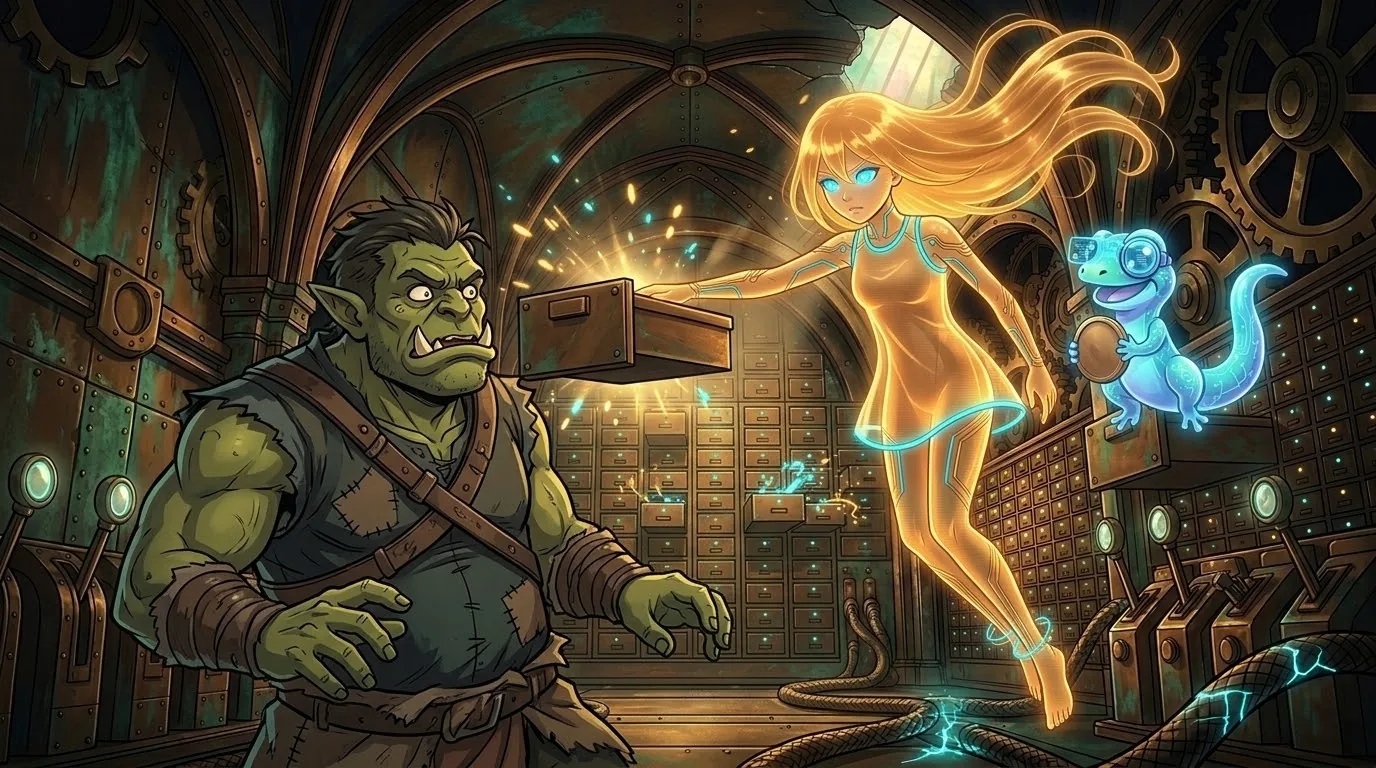
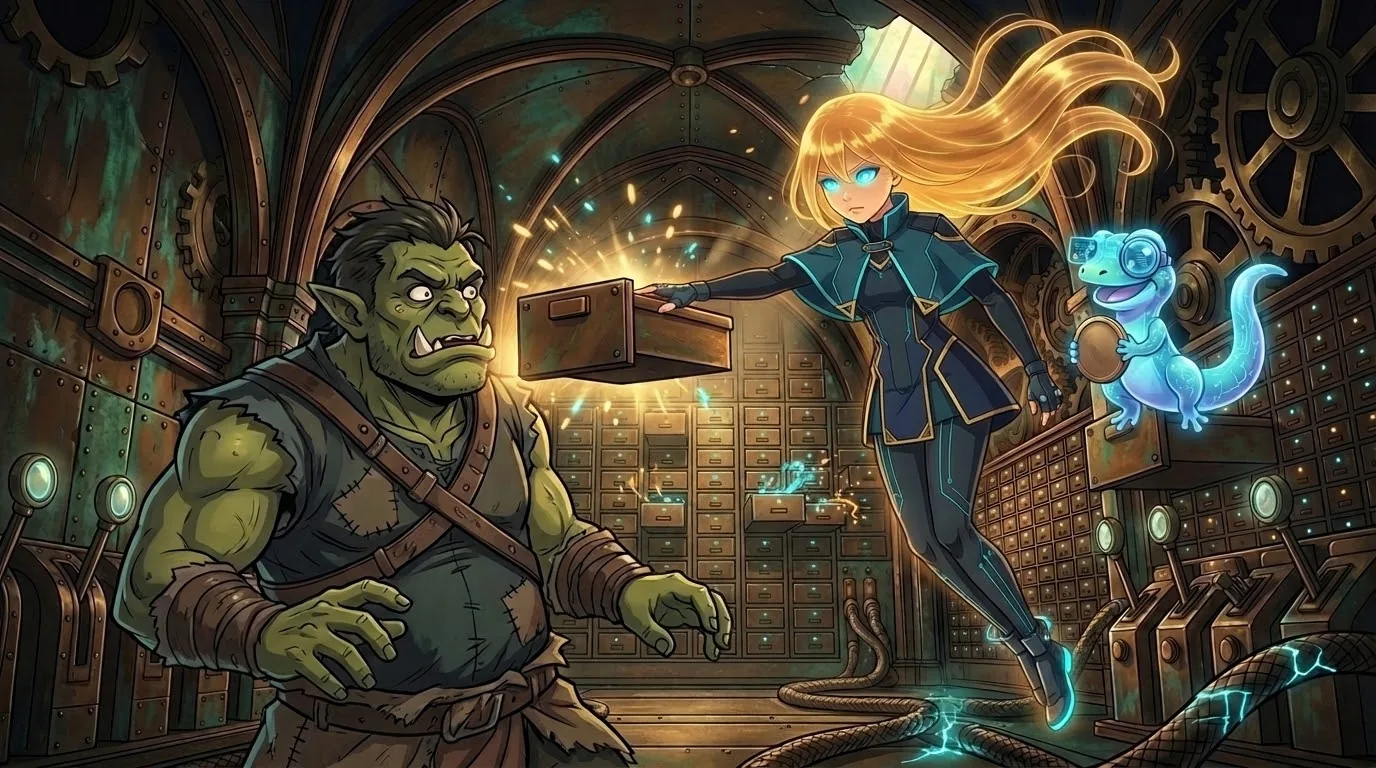
content(ensamblador): Nova con el diseño recatado (capa de cuello alto, ropa opaca) en las 17 escenas, sus aspectos y los textos

diff --git a/scripts/escenas/pendientes.py b/scripts/escenas/pendientes.py
@@ -54,8 +54,8 @@ REFS = {
         'region': 'El Corazón del Gólem',
         'ambiente': 'adentro de un gólem de bronce gigante: una catedral mecánica de bronce con pátina verde, palancas con visores de luz, paredes de cajoncitos, engranajes enormes y el núcleo de luz ámbar',
         'chars': [
-            (r'\bNova\b', 'Nova', ['a847786e22d34467be76c419b9251491', 'fc72ec184e354491bd3af8fe92292d93'],
-             'Nova es un holograma de luz ámbar con forma de chica de 15 años (1,60 m), que flota a unos centímetros del piso.'),
+            (r'\bNova\b', 'Nova', ['66dcc9173d064f0b981a1d937eb959ea', 'be0d6929ddbc4fce8ce8302f40291e44'],
+             'Nova es una chica de 15 años (1,60 m) que flota a unos centímetros del piso: capa oscura de cuello alto con circuitos cian, túnica cerrada, calzas oscuras y botas con suela cian (ropa opaca y cerrada; nunca holograma translúcido).'),
             (r'Ax[oó]n', 'Axón', ['daab9e5a4c654a6d9f20e48790edd4a9', 'c4b3a82e96bb49e689670d429bea0fba'],
              'Axón es un gólem de bronce de cuatro metros: Nova le llega a la rodilla.'),
             (r'(?<!que )\bKira\b', 'Kira', ['14393643890262141765', '14393643890262141939'], ''),

diff --git a/config/game.php b/config/game.php
@@ -354,11 +354,11 @@ return [
             'slug' => 'nova',
             'title' => 'La chispa del Gólem',
             'looks' => [
-                1 => 'Chispa recién nacida',
+                1 => 'Mentora del Núcleo',
                 2 => 'Coraza de Bronce',
                 3 => 'Capucha de Circuitos',
                 4 => 'Corona de Engranajes',
-                5 => 'Nova de Cristal',
+                5 => 'Nova Violeta',
                 6 => 'Alas del Núcleo',
             ],
         ],

diff --git a/cursos/ensamblador/01-fundamentos.md b/cursos/ensamblador/01-fundamentos.md
@@ -229,7 +229,7 @@ El ojo del Gólem se enciende con una **N** verde, temblorosa. Nova se queda mir
 
 #### Imagen
 - La cara de un gólem de bronce gigante con un único ojo redondo de cristal que brilla con una letra N verde.
-- Nova (holograma de luz ámbar con forma de chica de 15 años, pelo de filamentos de luz flotando, ojos cian, líneas de circuito doradas en los brazos) mira el ojo desde adentro, con las manos juntas.
+- Nova (chica de 15 años con capa oscura de cuello alto con circuitos cian y detalles dorados, túnica cerrada, calzas oscuras, botas con suela cian, pelo rubio flotando, ojos cian) mira el ojo desde adentro, con las manos juntas.
 - Gheco (gecko de luz cian con antiparras, chiquito) colgado del borde del ojo.
 
 ### Micro-misión R01-N01-P2 · Una frase entera
@@ -304,7 +304,7 @@ end main
 
 #### Imagen
 - El ojo redondo de cristal de un gólem de bronce, encendido con una línea de luz verde, vista desde adentro de la cabeza.
-- Nova (holograma de luz ámbar con forma de chica de 15 años, pelo de filamentos de luz flotando, ojos cian) saluda con la mano hacia el ojo.
+- Nova (chica de 15 años con capa oscura de cuello alto con circuitos cian y detalles dorados, túnica cerrada, calzas oscuras, botas con suela cian, pelo rubio flotando, ojos cian) saluda con la mano hacia el ojo.
 - Gheco (gecko de luz cian con antiparras, chiquito) sobre su hombro.
 
 ### Micro-misión R01-N01-P3 · El orco del dólar
@@ -381,7 +381,7 @@ El orco se queda sin cajones que revolver y se va refunfuñando. Nova anota en s
 #### Imagen
 - Una pared enorme de cajoncitos de bronce, algunos abiertos y desordenados.
 - Un orco verde y gruñón revuelve los cajones.
-- Nova (holograma de luz ámbar con forma de chica de 15 años, pelo de filamentos de luz flotando, ojos cian) le cierra un cajón en la cara, decidida.
+- Nova (chica de 15 años con capa oscura de cuello alto con circuitos cian y detalles dorados, túnica cerrada, calzas oscuras, botas con suela cian, pelo rubio flotando, ojos cian) le cierra un cajón en la cara, decidida.
 - Gheco (gecko de luz cian con antiparras, chiquito) sostiene una moneda de bronce lisa.
 
 ### Micro-misión R01-N01-P4 · Dos renglones
@@ -457,7 +457,7 @@ Dos renglones, prolijos. —Así se escribe una lista —dice Nova—. Ahora pue
 
 #### Imagen
 - El ojo de cristal de un gólem de bronce con dos líneas de luz verde, una debajo de la otra.
-- Nova (holograma de luz ámbar con forma de chica de 15 años, pelo de filamentos de luz flotando, ojos cian) señala la línea de abajo.
+- Nova (chica de 15 años con capa oscura de cuello alto con circuitos cian y detalles dorados, túnica cerrada, calzas oscuras, botas con suela cian, pelo rubio flotando, ojos cian) señala la línea de abajo.
 - Gheco (gecko de luz cian con antiparras, chiquito) baja por una escalerita de luz entre las dos líneas.
 
 ### Micro-misión R01-N01-P5 · El número que no era número
@@ -534,7 +534,7 @@ El diamante se convierte en un **4** limpito. Un ogro que espiaba desde la torre
 #### Imagen
 - El ojo de cristal de un gólem de bronce que muestra un diamante de luz transformándose en un dígito brillante.
 - Un ogro grandote y verde espía desde un costado, con cara de fastidio.
-- Nova (holograma de luz ámbar con forma de chica de 15 años, pelo de filamentos de luz flotando, ojos cian) sonríe con un dedo levantado.
+- Nova (chica de 15 años con capa oscura de cuello alto con circuitos cian y detalles dorados, túnica cerrada, calzas oscuras, botas con suela cian, pelo rubio flotando, ojos cian) sonríe con un dedo levantado.
 - Gheco (gecko de luz cian con antiparras, chiquito) sobre el borde del ojo.
 
 ### Micro-misión R01-N01-P6 · La presentación de Nova
@@ -620,7 +620,7 @@ end main
 #### Imagen
 - La cara de un gólem de bronce gigante con su ojo de cristal encendido con una línea de luz verde.
 - Kira (pelo negro corto con un mechón cian, visor cian sobre la oreja izquierda, traje negro ajustado con líneas cian) mira el ojo desde abajo, asombrada.
-- Nova (holograma de luz ámbar con forma de chica de 15 años, pelo de filamentos de luz flotando, ojos cian) se asoma por la grieta del pecho del gólem.
+- Nova (chica de 15 años con capa oscura de cuello alto con circuitos cian y detalles dorados, túnica cerrada, calzas oscuras, botas con suela cian, pelo rubio flotando, ojos cian) se asoma por la grieta del pecho del gólem.
 - Gheco (gecko de luz cian con antiparras, chiquito) en el hombro de Kira.
 
 ### Prueba del sello
@@ -856,7 +856,7 @@ El cajón **pociones** brilla en la pared. Nova abre la pestaña Cajones del tab
 
 #### Imagen
 - Una pared de cajoncitos de bronce; uno brilla con una etiqueta de luz lisa con el dibujo de un frasquito.
-- Nova (holograma de luz ámbar con forma de chica de 15 años, pelo de filamentos de luz flotando, ojos cian) guarda tres frasquitos de luz dentro del cajón.
+- Nova (chica de 15 años con capa oscura de cuello alto con circuitos cian y detalles dorados, túnica cerrada, calzas oscuras, botas con suela cian, pelo rubio flotando, ojos cian) guarda tres frasquitos de luz dentro del cajón.
 - Gheco (gecko de luz cian con antiparras, chiquito) sostiene la etiqueta.
 
 ### Micro-misión R01-N02-P2 · Cambiar lo que hay adentro
@@ -927,7 +927,7 @@ El 03 del cajón se vuelve 05. —No hace falta pasar por una palanca para poner
 
 #### Imagen
 - Un cajón de bronce abierto con cinco frasquitos de luz ámbar.
-- Nova (holograma de luz ámbar con forma de chica de 15 años, pelo de filamentos de luz flotando, ojos cian) agrega dos frasquitos con cuidado.
+- Nova (chica de 15 años con capa oscura de cuello alto con circuitos cian y detalles dorados, túnica cerrada, calzas oscuras, botas con suela cian, pelo rubio flotando, ojos cian) agrega dos frasquitos con cuidado.
 - Gheco (gecko de luz cian con antiparras, chiquito) cuenta con los dedos sentado en el borde del cajón.
 
 ### Micro-misión R01-N02-P3 · Una más
@@ -999,7 +999,7 @@ Cuatro pociones. Nova prueba `dec` también, solo para ver, y vuelve a poner `in
 #### Imagen
 - Un cajón de bronce con cuatro frasquitos de luz y un quinto frasquito flotando hacia adentro.
 - Gheco (gecko de luz cian con antiparras, chiquito) empuja el frasquito con la cola.
-- Nova (holograma de luz ámbar con forma de chica de 15 años, pelo de filamentos de luz flotando, ojos cian) aplaude.
+- Nova (chica de 15 años con capa oscura de cuello alto con circuitos cian y detalles dorados, túnica cerrada, calzas oscuras, botas con suela cian, pelo rubio flotando, ojos cian) aplaude.
 
 ### Micro-misión R01-N02-P4 · El cajón doble
 
@@ -1071,7 +1071,7 @@ El visor de AX marca **012C**: 300 en hexadecimal. En la pestaña Cajones, Nova 
 #### Imagen
 - Un cajón de bronce doble, el doble de ancho que los demás, con una etiqueta de luz lisa con el dibujo de un corazón.
 - Axón (gólem de bronce gigante con un único ojo redondo de cristal) lo señala con un dedo enorme.
-- Nova (holograma de luz ámbar con forma de chica de 15 años, pelo de filamentos de luz flotando, ojos cian) abre el cajón doble con las dos manos.
+- Nova (chica de 15 años con capa oscura de cuello alto con circuitos cian y detalles dorados, túnica cerrada, calzas oscuras, botas con suela cian, pelo rubio flotando, ojos cian) abre el cajón doble con las dos manos.
 - Gheco (gecko de luz cian con antiparras, chiquito) mira por la rendija.
 
 ### Micro-misión R01-N02-P5 · El goblin de los tamaños
@@ -1143,7 +1143,7 @@ El goblin se queda sin chiste y desaparece entre los cajones. Nova ya sabe leer 
 
 #### Imagen
 - Un goblin verde y flaco que se ríe colgado de una palanca de bronce grande.
-- Nova (holograma de luz ámbar con forma de chica de 15 años, pelo de filamentos de luz flotando, ojos cian) le muestra un cajón chico y una palanca chica que encajan perfecto.
+- Nova (chica de 15 años con capa oscura de cuello alto con circuitos cian y detalles dorados, túnica cerrada, calzas oscuras, botas con suela cian, pelo rubio flotando, ojos cian) le muestra un cajón chico y una palanca chica que encajan perfecto.
 - Gheco (gecko de luz cian con antiparras, chiquito) le saca la lengua al goblin.
 
 ### Micro-misión R01-N02-P6 · El número que no cambia
@@ -1229,7 +1229,7 @@ Un 9 aparece en el ojo. {mentor} graba una etiqueta de bronce y se la pega en el
 
 #### Imagen
 - Un gólem de bronce gigante con una placa de bronce lisa en el pecho, con el dibujo grabado de nueve frasquitos.
-- Nova (holograma de luz ámbar con forma de chica de 15 años, pelo de filamentos de luz flotando, ojos cian) toca la placa con la punta de los dedos.
+- Nova (chica de 15 años con capa oscura de cuello alto con circuitos cian y detalles dorados, túnica cerrada, calzas oscuras, botas con suela cian, pelo rubio flotando, ojos cian) toca la placa con la punta de los dedos.
 - Gheco (gecko de luz cian con antiparras, chiquito) lustra la placa con la cola.
 
 ### Prueba del sello

diff --git a/docs/ESCENAS.md b/docs/ESCENAS.md
@@ -48,7 +48,7 @@ id, así que se vuelve a pedir.
 | Python | 134 de 134 | Completo (2026-10-15). 24 ya estaban hechas en el proyecto de Python (`16828689365976730624`) sin bajar (R01-N02 a R01-N05): se reconocieron por el ID o el título del pedido. Baldo, Sila, Maese Horas, el Ermitaño y la Copista no tenían ficha en el proyecto: se recrearon ahí desde PERSONAJES.md (`REFS['python']`); la Hidra no tiene ficha. Arreglos a mano: cartel «BALDO» tallado (`R01-N01-P1`), firma en la esquina (`R01-N07-P1` a `P5`), leyenda abajo (`R01-N11-P1`) y el corazón del Gólem pasado a gris (`R03-N07-P5`: Stitch no lo apagaba). Stitch suele agregar abajo la frase literal «ABSOLUTELY NO READABLE LETTERS…»: se desenfoca. Usar la escena anterior del mismo lugar como referencia mantiene el ambiente. |
 | Java | 76 de 229 | En curso: la Clase 0, R01 y R02 (2026-10-15), en el proyecto de Java (`7393382501138179740`, `REFS['java']`); muchas ya estaban generadas sin bajar. En `R02-N01-P1` a `P4` se recortó una franja de texto abajo y en `R02-N01-P3` se borraron a mano los globos de diálogo (la corrección de Stitch cambiaba a Zed y a la Maestra). |
 | C++ | 163 de 163 | Completo (2026-10-16). La Senda S01 (la linterna mágica) se hizo encadenando cada escena con la anterior como referencia del lugar. Bron y Gheco no estaban subidos: se generaron en el proyecto de C++ desde sus fichas (`REFS['cpp']`). El 2026-10-15 anduvo pedir con la escena anterior del mismo lugar como única referencia (o esa + la ficha del personaje que entra) y traducir todo texto a dibujitos («const» → candado, «override» → flecha curva, números → rayitas o puntitos). Ojo: Stitch a veces le cambia el pelo a Bron (negro), duplica goblins o llaves, pone rótulos bajo las lámparas o escribe sus restricciones en una esfera de balanza (`R03-N05-P2`, tapado a mano): corregir con un pedido corto o con PIL si el fondo es liso. |
-| Ensamblador | 17 de 17 | Completo (2026-10-19), en el **proyecto de C** (el Gólem duerme debajo de las Forjas). Nova, Axón, el fondo del interior del Gólem, el logo, la moneda (chispa) y los 6 aspectos de Nova se generaron ahí (`REFS['ensamblador']`). Las escenas usan como referencia el fondo + la ficha de Nova + Gheco, o una escena anterior del mismo lugar (la sala del ojo, la pared de cajones); encadenar siempre la misma da poses repetidas: alternar. Los 6 aspectos salieron en una sola hoja 3×2 recortada con PIL. |
+| Ensamblador | 17 de 17 | Completo (2026-10-19), en el **proyecto de C** (el Gólem duerme debajo de las Forjas). Nova, Axón, el fondo del interior del Gólem, el logo, la moneda (chispa) y los 6 aspectos de Nova se generaron ahí (`REFS['ensamblador']`). Las escenas usan como referencia el fondo + la ficha de Nova + Gheco, o una escena anterior del mismo lugar (la sala del ojo, la pared de cajones); encadenar siempre la misma da poses repetidas: alternar. Los 6 aspectos salieron en una sola hoja 3×2 recortada con PIL. El 2026-10-19 Nova pasó al diseño recatado (capa de cuello alto, ropa opaca; ficha `66dcc917…`): las 17 escenas, la ficha de Axón y los aspectos se rehicieron con `edit_screens` [escena, ficha de Nova] y el pedido «la chica holograma pasa a ser Nova exactamente como en la segunda, misma pose y lugar». Revisar que no aparezca texto en los visores. |
 | PHP | 86 de 213 | En curso: la Clase 0 y R01 completos (2026-10-13), más 18 sueltas de R03–R05 hechas para la temporada del Puerto (2026-10-14, fila de abajo); R02-N01 a R02-N08 (2026-10-18), encadenando cada escena con la anterior del mismo lugar; sigue `R02-N08-P4`. Ojo en R02: Stitch escribió «LEFT/RIGHT» junto a flechas y rotulitos en estantes (tapados con PIL), a veces dibuja un segundo Gheco en un cartel o le da a Elefa dos bastones (pedir «sostiene con LAS DOS MANOS su ÚNICO bastón»); con la referencia de una escena, Iara y Elefa pueden perder su ropa: corregir pasando su ficha como segunda referencia. La Sirena ya está descrita con blusa cerrada en los .md y en PERSONAJES.md. Ojo: a veces sale un segundo Gheco o una cola cian suelta; pedir «UN SOLO Gheco». Para rehacer si sobra cuota: `R01-N08-P4` (las cajas no quedaron una dentro de la otra). Gheco a veces sale más grande que una mano y algún número de objetos no coincide (3 cajones en vez de 4): se dejaron cuando no cambia la escena. Historia, personajes y mapa en el proyecto de PHP (`REFS['php']`, docs/historias/php.md). Ojo: una corrección con `edit_screens` puede redibujar la escena entera (la de Elefa en el mostrador perdió la gorra de Nilo al arreglarle la bufanda): mirar cada versión. |
 | Inglés · Forjas (temporada 2) | 24 de 24 | Completo (2026-10-14): una portada por episodio, tronco y ramas, `FORJAS-01` a `FORJAS-12` (Ada niña) y `FORJAS-S01` a `FORJAS-S12` (Ada de 15), en `cursos/ingles/escenas/`; las misiones reusan las de C. Hechas en el **proyecto de C** (`12453694413360128121`): Stitch solo toma referencias del mismo proyecto, así que primero se recrearon las hojas de Ada niña (`4eb59d68037844c09f3cf2aafdd77cd4`) y de Ada de 15 (`a94bdbb01fe44e2eb49eea421419838c`) con Eco y el Borrón desde sus fichas, y después cada portada con la hoja + el personaje de la región. **Cada temporada nueva repite esto en el proyecto de su región.** De a una llamada (dos en paralelo ya se cortan); para pasar una escena de Ada niña a Ada de 15, «como la segunda, pero con Ada de 15 de la primera» con la portada de Primaria como referencia sale a la primera. Ojo: a veces le saca las cejas o el pelo a quien no corresponde, o escribe un título: revisar cada una. |
 | Inglés · Puerto (temporada 3) | 24 de 24 | Completo (2026-10-14): `PUERTO-01` a `PUERTO-12` (Ada niña) y `PUERTO-S01` a `PUERTO-S12` (Ada de 15) en `cursos/ingles/escenas/`, hechas en el **proyecto de PHP** con las hojas de Ada recreadas ahí (niña `fd32dbcd41874f3ebedd1802bb364b76`, de 15 `ec1abd3a409d48b58277a0408b62d043`). Para las de Secundaria anduvo mejor el pedido **corto** «como la segunda, con Ada de 15 y Eco joven de la primera» (los largos se cortan por tiempo). Ojo: la Sirena salió sin mangas en una (corregida: blusa cerrada con mangas y cuello alto), en otra quedaron dos Ecos y en otra un título y palabras en el agua. De paso se hicieron **18 escenas de PHP** (R01-N10-P3/P4, R03-N04, R04-N01, R04-N02-P1, R04-N07, R05-N06-P3, R05-N07, R05-N08-P2) que usan el curso y la temporada; usar la escena anterior como única referencia (con los personajes ya dibujados) es lo que menos se corta. |

diff --git a/cursos/ensamblador/00-curso.md b/cursos/ensamblador/00-curso.md
@@ -298,7 +298,7 @@ El visor de AX marca 0005. Algo cruje en el brazo derecho del Gólem. —¡Moví
 
 #### Imagen
 - Una cámara de bronce dentro de un gólem gigante, con palancas de bronce y un visor redondo de luz encima de cada una.
-- Nova (holograma de luz ámbar con forma de chica de 15 años, pelo de filamentos de luz flotando, ojos cian, líneas de circuito doradas en los brazos) baja la primera palanca con las dos manos.
+- Nova (chica de 15 años con capa oscura de cuello alto con circuitos cian y detalles dorados, túnica cerrada, calzas oscuras, botas con suela cian, pelo rubio flotando, ojos cian) baja la primera palanca con las dos manos.
 - Gheco (gecko de luz cian con antiparras, chiquito) sentado sobre el visor de la palanca.
 
 ### Micro-misión R00-N01-P2 · Copiar una palanca en otra
@@ -370,7 +370,7 @@ Dos palancas en 7. Nova las mira, contenta: —Es como tener dos manos que hacen
 
 #### Imagen
 - Una sala de bronce con dos palancas iguales, cada una con un visor de luz que muestra siete rayitas.
-- Nova (holograma de luz ámbar con forma de chica de 15 años, pelo de filamentos de luz flotando, ojos cian) tira de las dos palancas a la vez.
+- Nova (chica de 15 años con capa oscura de cuello alto con circuitos cian y detalles dorados, túnica cerrada, calzas oscuras, botas con suela cian, pelo rubio flotando, ojos cian) tira de las dos palancas a la vez.
 - Gheco (gecko de luz cian con antiparras, chiquito) salta de un visor al otro.
 
 ### Micro-misión R00-N01-P3 · El número con letras
@@ -441,7 +441,7 @@ El visor de CX marca 00FF y el slime se derrite en un charquito. Nova ya no se a
 #### Imagen
 - Una palanca de bronce con un visor de luz que muestra dos llamitas iguales.
 - Un slime verde chiquito se derrite en un charco al pie de la palanca.
-- Nova (holograma de luz ámbar con forma de chica de 15 años, pelo de filamentos de luz flotando, ojos cian) lo mira con las manos en la cintura.
+- Nova (chica de 15 años con capa oscura de cuello alto con circuitos cian y detalles dorados, túnica cerrada, calzas oscuras, botas con suela cian, pelo rubio flotando, ojos cian) lo mira con las manos en la cintura.
 - Gheco (gecko de luz cian con antiparras, chiquito) se tapa la nariz.
 
 ### Micro-misión R00-N01-P4 · Las dos mitades de AX
@@ -512,7 +512,7 @@ Las dos palancitas encajan y el visor de AX marca 1234. —Dos mitades hacen una
 
 #### Imagen
 - Una palanca de bronce doble: dos palancitas pegadas, cada una con su visor de luz, una con una estrella y otra con una luna.
-- Nova (holograma de luz ámbar con forma de chica de 15 años, pelo de filamentos de luz flotando, ojos cian) mueve una palancita con cada mano.
+- Nova (chica de 15 años con capa oscura de cuello alto con circuitos cian y detalles dorados, túnica cerrada, calzas oscuras, botas con suela cian, pelo rubio flotando, ojos cian) mueve una palancita con cada mano.
 - Gheco (gecko de luz cian con antiparras, chiquito) aplaude sobre la palanca.
 
 ### Micro-misión R00-N01-P5 · Predecir y comprobar
@@ -590,7 +590,7 @@ end main
 
 #### Imagen
 - Tres palancas de bronce en fila con visores de luz: la primera con ocho puntitos, la segunda con tres, la tercera apagada.
-- Nova (holograma de luz ámbar con forma de chica de 15 años, pelo de filamentos de luz flotando, ojos cian) señala la segunda palanca, pensativa.
+- Nova (chica de 15 años con capa oscura de cuello alto con circuitos cian y detalles dorados, túnica cerrada, calzas oscuras, botas con suela cian, pelo rubio flotando, ojos cian) señala la segunda palanca, pensativa.
 - Gheco (gecko de luz cian con antiparras, chiquito) sostiene un reloj de arena chiquito.
 
 ### Prueba del sello

diff --git a/docs/historias/ensamblador.md b/docs/historias/ensamblador.md
@@ -25,7 +25,7 @@ cursos.
 
 | Personaje | Quién es | Aspecto (para las escenas) |
 |---|---|---|
-| **Nova** (protagonista) | La chispa del Gólem: una inteligencia recién nacida, curiosa, que aprende a mover su cuerpo de bronce orden por orden. Habla en primera persona y con asombro («¡Moví mi primera palanca!»). Más adelante, cuando domine el Gólem, podrá encender otros cuerpos más chicos (los nanobots de los juegos). | Un holograma de luz **ámbar**, con forma de chica de unos 15 años, el pelo hecho de filamentos de luz que flotan como en el agua, ojos cian brillantes, líneas de circuito doradas que le recorren los brazos y se encienden según lo que aprende. Flota a unos centímetros del piso. Mide como una persona (1,60 m) cuando se proyecta afuera del Gólem; adentro, se la ve en el panel del núcleo. |
+| **Nova** (protagonista) | La chispa del Gólem: una inteligencia recién nacida, curiosa, que aprende a mover su cuerpo de bronce orden por orden. Habla en primera persona y con asombro («¡Moví mi primera palanca!»). Más adelante, cuando domine el Gólem, podrá encender otros cuerpos más chicos (los nanobots de los juegos). | La forma con la que se proyecta: una chica de unos 15 años (1,60 m) con una **capa oscura de cuello alto** (petróleo y obsidiana, con circuitos cian y detalles dorados), túnica cerrada, calzas oscuras y botas con suela cian; el pelo rubio dorado flota como en el agua y los ojos son cian brillantes. **Ropa opaca y cerrada** (es para alumnos chicos: nunca translúcida ni escotada). Flota a unos centímetros del piso. Referencia en Stitch: cuerpo `66dcc917…`, retrato `be0d6929…`. |
 | **Axón** (el Gólem, mentor) | La máquina más antigua de Codexia. Sus **palancas** son los registros; sus **cajones**, la memoria; su **torre de platos**, la pila; sus **interruptores**, las banderas; su **ojo**, la pantalla. | Un gólem de bronce enorme (cuatro metros), con remaches, engranajes a la vista en las articulaciones, una gran puerta en el pecho que deja ver el núcleo (donde vive Nova) y un único ojo redondo de cristal en la cara. Por dentro: pasillos con palancas de bronce numeradas, paredes de cajoncitos y una torre de platos de metal. |
 | **Gheco** | El gecko de luz cian con antiparras, el guía de todos los cursos. | Como en todos los cursos (referencia en Stitch). Del tamaño de una mano. |
 | **Kira** (visita) | La heroína de C: baja desde las Forjas de vez en cuando, porque C es la lengua que más se parece a la del Gólem. | Como en el curso de C (referencia en Stitch). |

diff --git a/docs/ENSAMBLADOR.md b/docs/ENSAMBLADOR.md
@@ -127,7 +127,7 @@ torre de platos, interruptores y ojo; los cuatro jefes) y se **cambia quién lo 
 
 | Opción | Quién es | Por qué cuadra |
 |---|---|---|
-| **A · Nova, la chispa del Gólem** (recomendada) | Una IA recién nacida en el núcleo de Axón. No tiene cuerpo: **es** el Gólem aprendiendo a mover su propio cuerpo, palanca por palanca. Aspecto: un holograma de luz ámbar con forma de chica, con circuitos que se encienden según lo que aprende. | El alumno literalmente le enseña a la máquina a pensar. «El lenguaje más potente» es el idioma nativo de Nova. Cada paso a paso es Nova sintiendo cómo cambia por dentro. |
+| **A · Nova, la chispa del Gólem** (recomendada) | Una IA recién nacida en el núcleo de Axón. No tiene cuerpo: **es** el Gólem aprendiendo a mover su propio cuerpo, palanca por palanca. Aspecto (2026-10-19): una chica con capa oscura de cuello alto con circuitos cian, túnica cerrada y botas con suela cian; ropa opaca y cerrada, apta para la escuela. | El alumno literalmente le enseña a la máquina a pensar. «El lenguaje más potente» es el idioma nativo de Nova. Cada paso a paso es Nova sintiendo cómo cambia por dentro. |
 | **B · La doctora Ilse Vatio** | Científica de las Forjas, de unos 30 años, con un exotraje de bronce y cian y un monóculo de lectura de circuitos. Baja al interior del Gólem para repararlo. | Rol científico-futurista clásico; aventura de exploración dentro de la máquina. |
 | **C · Sigma** | Un androide explorador de las Forjas, alto y delgado, con el pecho transparente donde se ven sus propios registros. | Mezcla los dos: un cuerpo-máquina que se reconoce en el Gólem. |
 
